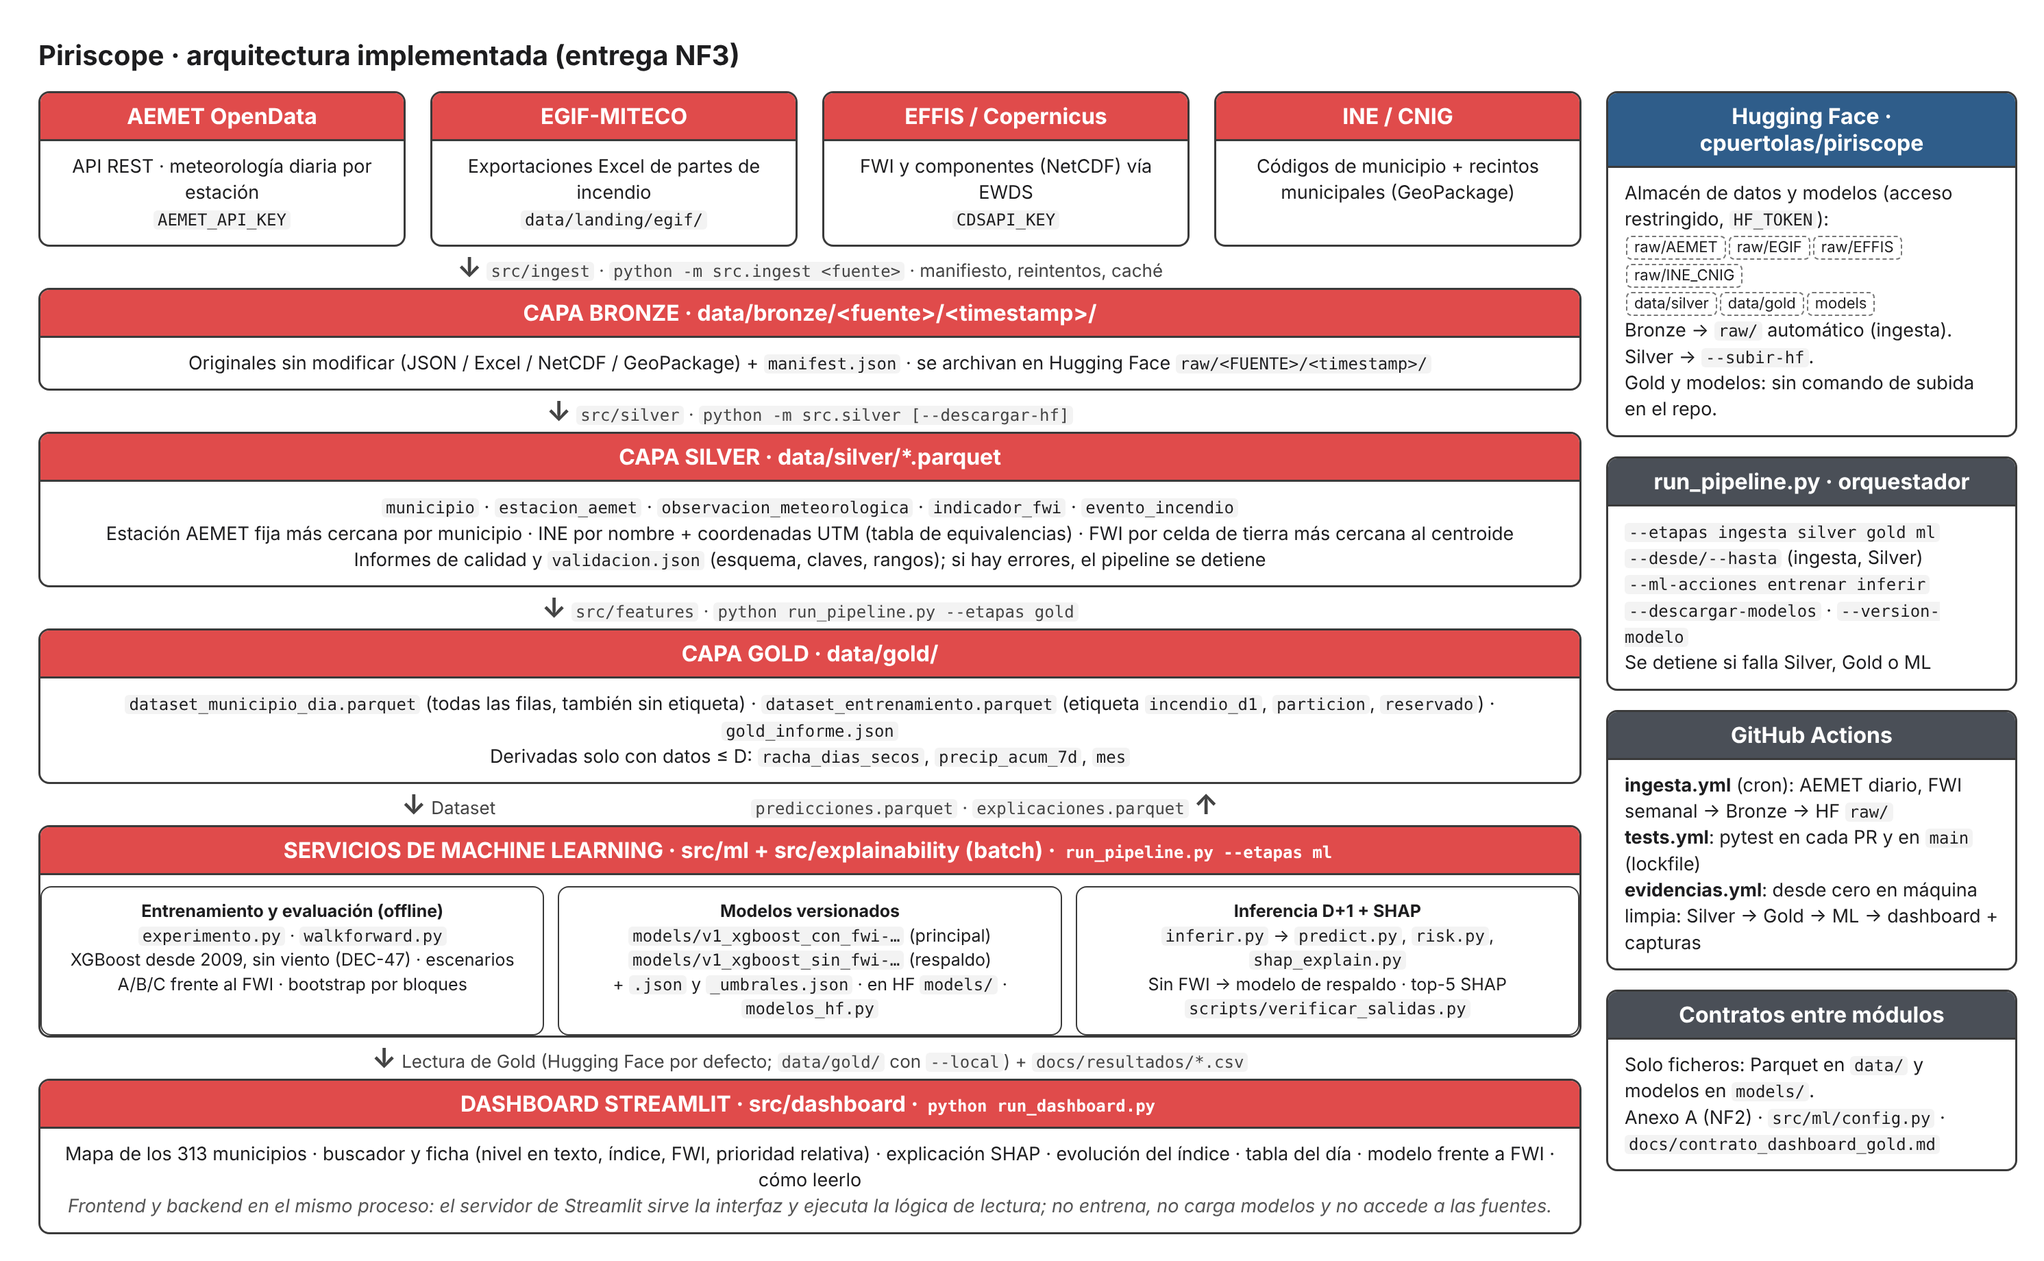
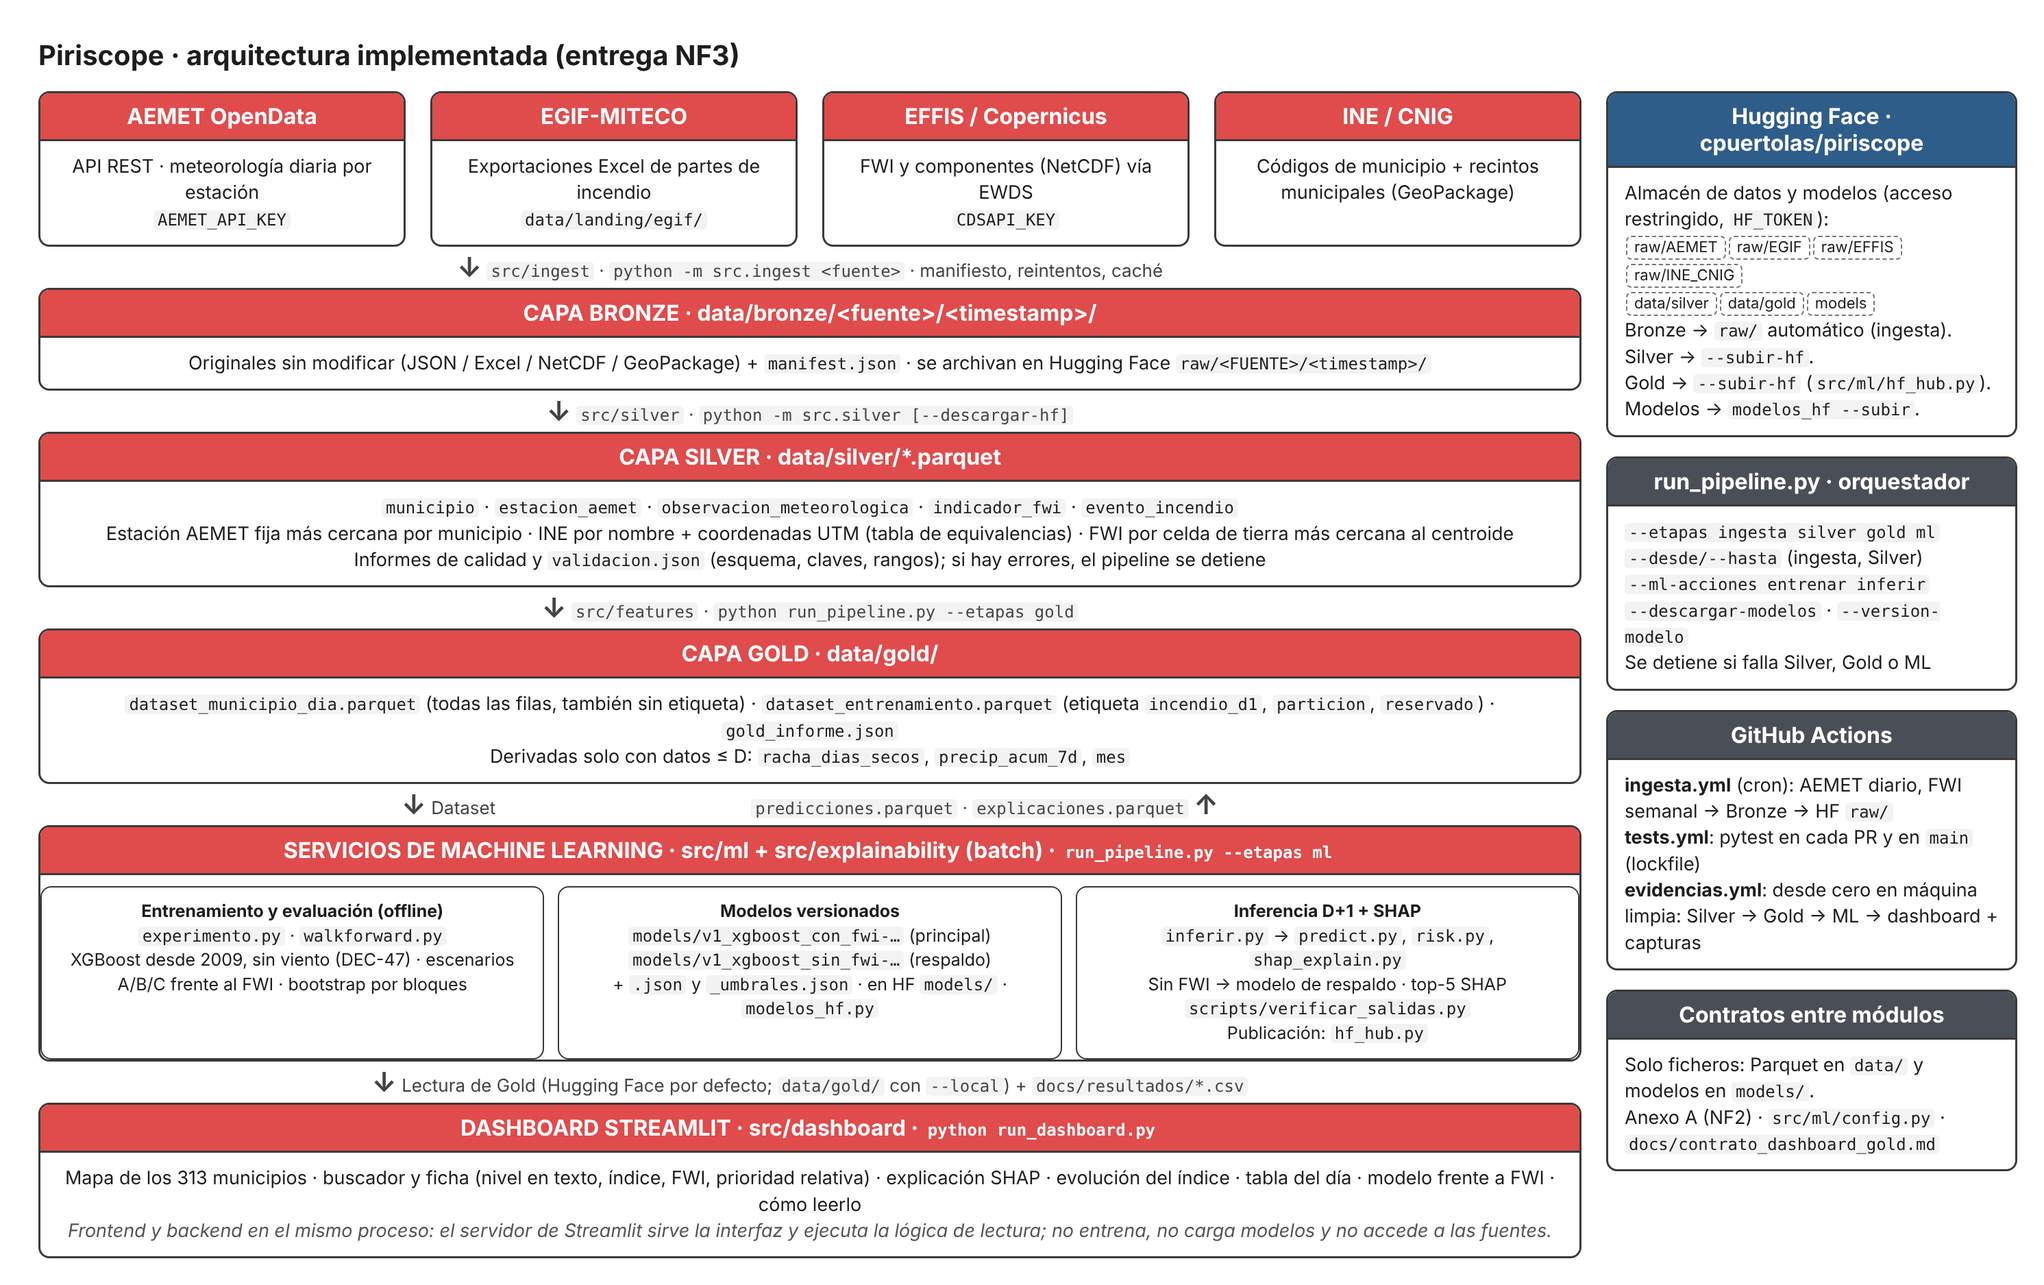
Renumber NF3 decision to DEC-54 after PR #45/#46; align references; dry-run publication in evidence
- PR #45 added DEC-53 (Gold publication) while DEC-53 already existed (NF3 delivery):
  the NF3 one becomes DEC-54 and is added to the index table.
- hf_hub.py, contract and src/ml/README referenced DEC-52 for Gold publication -> DEC-53.
- src/ml/README: --dry_run -> --dry-run; models can now be published.
- README: limitations and repository tree updated for hf_hub.py and modelos_hf --subir.
- docs/arquitectura_implementada: Gold and model publication commands.
- evidencias.yml: run hf_hub and modelos_hf --subir with --dry-run on the real files.

Claude-Session: https://claude.ai/code/session_01HNHJTAW3Qe6EWAYbWsk7Pn

Changed region(s): [[0.0, 0.031, 0.9977, 0.9603], [0.5924, 0.062, 0.7482, 0.1549]]

diff --git a/docs/arquitectura_implementada.html b/docs/arquitectura_implementada.html
@@ -49,7 +49,7 @@
     <div class="sub">
       <div class="caja"><div class="cuerpo"><b>Entrenamiento y evaluación (offline)</b><br><code>experimento.py</code> · <code>walkforward.py</code><br>XGBoost desde 2009, sin viento (DEC-47) · escenarios A/B/C frente al FWI · bootstrap por bloques</div></div>
       <div class="caja"><div class="cuerpo"><b>Modelos versionados</b><br><code>models/v1_xgboost_con_fwi-…</code> (principal)<br><code>models/v1_xgboost_sin_fwi-…</code> (respaldo)<br>+ <code>.json</code> y <code>_umbrales.json</code> · en HF <code>models/</code> · <code>modelos_hf.py</code></div></div>
-      <div class="caja"><div class="cuerpo"><b>Inferencia D+1 + SHAP</b><br><code>inferir.py</code> → <code>predict.py</code>, <code>risk.py</code>, <code>shap_explain.py</code><br>Sin FWI → modelo de respaldo · top-5 SHAP<br><code>scripts/verificar_salidas.py</code></div></div>
+      <div class="caja"><div class="cuerpo"><b>Inferencia D+1 + SHAP</b><br><code>inferir.py</code> → <code>predict.py</code>, <code>risk.py</code>, <code>shap_explain.py</code><br>Sin FWI → modelo de respaldo · top-5 SHAP<br><code>scripts/verificar_salidas.py</code><br>Publicación: <code>hf_hub.py</code></div></div>
     </div></div>
   <div class="flecha"><b>↓</b> Lectura de Gold (Hugging Face por defecto; <code>data/gold/</code> con <code>--local</code>) + <code>docs/resultados/*.csv</code></div>
   <div class="caja"><div class="cab">DASHBOARD STREAMLIT · src/dashboard · <code style="background:none;color:#fff">python run_dashboard.py</code></div>
@@ -61,7 +61,7 @@
     <div class="cuerpo izq">Almacén de datos y modelos (acceso restringido, <code>HF_TOKEN</code>):<br>
     <span class="tag">raw/AEMET</span><span class="tag">raw/EGIF</span><span class="tag">raw/EFFIS</span><span class="tag">raw/INE_CNIG</span><br>
     <span class="tag">data/silver</span><span class="tag">data/gold</span><span class="tag">models</span><br>
-    Bronze → <code>raw/</code> automático (ingesta).<br>Silver → <code>--subir-hf</code>.<br>Gold y modelos: sin comando de subida en el repo.</div></div>
+    Bronze → <code>raw/</code> automático (ingesta).<br>Silver → <code>--subir-hf</code>.<br>Gold → <code>--subir-hf</code> (<code>src/ml/hf_hub.py</code>).<br>Modelos → <code>modelos_hf --subir</code>.</div></div>
   <div class="caja"><div class="cab gris">run_pipeline.py · orquestador</div>
     <div class="cuerpo izq"><code>--etapas ingesta silver gold ml</code><br><code>--desde/--hasta</code> (ingesta, Silver)<br><code>--ml-acciones entrenar inferir</code><br><code>--descargar-modelos</code> · <code>--version-modelo</code><br>Se detiene si falla Silver, Gold o ML</div></div>
   <div class="caja"><div class="cab gris">GitHub Actions</div>

diff --git a/src/ml/hf_hub.py b/src/ml/hf_hub.py
@@ -1,4 +1,4 @@
-"""Publicación de las predicciones de Gold en el dataset de Hugging Face (DEC-52).
+"""Publicación de las predicciones de Gold en el dataset de Hugging Face (DEC-53).
 
 El dashboard descarga `predicciones.parquet` y `explicaciones.parquet` de `data/gold/` del dataset
 (`src/dashboard/datos.py`). Este módulo los sube **en un único commit**, de modo que nunca queda publicado un

diff --git a/src/ml/README.md b/src/ml/README.md
@@ -22,8 +22,8 @@ El modelo con FWI (`con_fwi`) **mejora al FWI** en los tres escenarios de test (
 | `experimento.py` | Entrena las variantes, compara con el FWI y escribe el informe (fases de desarrollo y final) |
 | `walkforward.py` | Validación walk-forward: repite la comparación con el FWI en varios años. Con `--guardar-predicciones` guarda las probabilidades y los umbrales de cada pliegue |
 | `inferir.py` | Inferencia batch con el modelo guardado: dominio del modelo, modelo de respaldo, predicciones, explicaciones SHAP, avisos de calidad y figuras de ejemplo |
-| `modelos_hf.py` | Descarga y subida de Hugging Face los modelos versionados (`models/<versión>_*`: `.joblib`, `.json` y `_umbrales.json`) a `models/`. Descarga: `python -m src.ml.modelos_hf [--version v1]` o `run_pipeline.py --etapas ml --descargar-modelos` (DEC-53); Subida: `python -m src.ml.modelos_hf --subir --version v1 [--dry_run]`|
-| `hf_hub.py` | Publica `predicciones.parquet` y `explicaciones.parquet` en el dataset de Hugging Face en un único commit, tras comprobar que son coherentes (DEC-52) |
+| `modelos_hf.py` | Descarga y subida de Hugging Face los modelos versionados (`models/<versión>_*`: `.joblib`, `.json` y `_umbrales.json`) a `models/`. Descarga: `python -m src.ml.modelos_hf [--version v1]` o `run_pipeline.py --etapas ml --descargar-modelos` (DEC-54). Subida, en un único commit: `python -m src.ml.modelos_hf --subir --version v1 [--dry-run]` |
+| `hf_hub.py` | Publica `predicciones.parquet` y `explicaciones.parquet` en el dataset de Hugging Face en un único commit, tras comprobar que son coherentes (DEC-53). `python -m src.ml.hf_hub [--dry-run]` o `run_pipeline.py --etapas ml --subir-hf` |
 | [`scripts/verificar_salidas.py`](../../scripts/verificar_salidas.py) | Comprueba `predicciones.parquet` y `explicaciones.parquet` (unicidad, cobertura, niveles frente a umbrales, reconstrucción de la probabilidad con SHAP). `run_pipeline.py --etapas ml` lo ejecuta tras la inferencia |
 
 ## Contrato de entrada (tabla de entrenamiento de Gold)
@@ -129,7 +129,7 @@ python scripts/verificar_salidas.py --pred data/gold/predicciones.parquet --expl
 - **Una predicción vigente por municipio y fecha:** al escribir, las nuevas sustituyen a las existentes del mismo municipio y `fecha_objetivo` (aunque tengan otra versión) y a sus explicaciones; así, cuando llega el FWI, `v1` reemplaza a `v1-respaldo`. La escritura es atómica. `--reemplazar` descarta todo lo anterior.
 - **Avisos** por stderr: cobertura baja (`--min-cobertura`), fechas con casi todos los municipios en «medio» o «alto» (`--aviso-alarmas`), muchos nulos meteorológicos en el último día y retraso respecto a hoy (`--max-retraso`).
 - **Figuras de ejemplo** (`--ejemplo-dir`): se generan después de escribir las salidas; si fallan, el código de salida es 2 pero las predicciones ya están escritas.
-- **Publicación en Hugging Face (DEC-52):** `python -m src.ml.hf_hub` (o `run_pipeline.py --etapas ml --subir-hf`, que publica tras inferir y verificar) sube las predicciones y las explicaciones a `data/gold/` del dataset, de donde las descarga el dashboard. Necesita un token con permiso de escritura; `--dry-run` comprueba sin subir.
+- **Publicación en Hugging Face (DEC-53):** `python -m src.ml.hf_hub` (o `run_pipeline.py --etapas ml --subir-hf`, que publica tras inferir y verificar) sube las predicciones y las explicaciones a `data/gold/` del dataset, de donde las descarga el dashboard. Necesita un token con permiso de escritura; `--dry-run` comprueba sin subir.
 
 ### Análisis auxiliares
 
@@ -194,7 +194,7 @@ Al escribir, las predicciones nuevas sustituyen a las existentes del mismo munic
 
 ## Decisiones
 
-Registradas en [docs/decisiones.md](../../docs/decisiones.md), DEC-37 a DEC-52 (contrato de entrada, variantes, entrenamiento, comparación con el baseline, niveles de riesgo, inferencia, SHAP, persistencia de modelos, municipios reservados, dataset de Gold, configuración del modelo, inferencia real con modelo de respaldo, niveles de riesgo, SHAP ampliado, integración en el orquestador y publicación en Hugging Face).
+Registradas en [docs/decisiones.md](../../docs/decisiones.md), DEC-37 a DEC-54 (contrato de entrada, variantes, entrenamiento, comparación con el baseline, niveles de riesgo, inferencia, SHAP, persistencia de modelos, municipios reservados, dataset de Gold, configuración del modelo, inferencia real con modelo de respaldo, niveles de riesgo, SHAP ampliado, integración en el orquestador, publicación en Hugging Face y entrega NF3).
 
 ## Limitaciones y pendientes
 
@@ -206,7 +206,7 @@ Registradas en [docs/decisiones.md](../../docs/decisiones.md), DEC-37 a DEC-52 (
 - **Probabilidad sin calibrar:** sobrestima entre 1,5 y 2,4 veces según el año y una calibración fijada en un año no se mantiene; se presenta como índice de riesgo.
 - **Niveles de riesgo:** política pendiente de confirmar (DEC-49). Los umbrales son provisionales y el Recall objetivo no se reproduce con exactitud de un año a otro.
 - **Etiquetas de 2022 y 2023:** pendiente contrastar con las estadísticas oficiales de EGIF que sean definitivas (DEC-31).
-- Los `.joblib` son pickles: solo cargar ficheros generados por el propio proyecto, y no se suben al repositorio. Los modelos `v1` están en `models/` del dataset de Hugging Face y se descargan con `modelos_hf.py` (DEC-44, DEC-53); el repositorio no tiene comando para subirlos.
+- Los `.joblib` son pickles: solo cargar ficheros generados por el propio proyecto, y no se suben al repositorio. Los modelos `v1` están en `models/` del dataset de Hugging Face y se descargan y se publican con `modelos_hf.py` (DEC-44, DEC-54).
 
 ## Tests
 

diff --git a/docs/decisiones.md b/docs/decisiones.md
@@ -63,6 +63,7 @@ Las decisiones iniciales proceden del documento de diseño técnico de la fase N
 | [DEC-51](#dec-51-integración-de-ml-en-el-orquestador-hu-11) | Integración de ML en el orquestador | Arquitectura | Aceptada |
 | [DEC-52](#dec-52-dashboard-origen-de-los-datos-catálogo-de-municipios-y-presentación) | Dashboard: origen de los datos, catálogo de municipios y presentación | Arquitectura / UX | Aceptada |
 | [DEC-53](#dec-53-publicación-de-las-predicciones-de-gold-en-hugging-face) | Publicación de las predicciones de Gold en Hugging Face | Arquitectura | Aceptada |
+| [DEC-54](#dec-54-entrega-nf3-reproducibilidad-modelos-desde-hugging-face-y-evidencias-en-máquina-limpia) | Entrega NF3: reproducibilidad, modelos desde Hugging Face y evidencias en máquina limpia | Reproducibilidad | Aceptada |
 
 ---
 
@@ -693,7 +694,7 @@ Las decisiones iniciales proceden del documento de diseño técnico de la fase N
 
 ---
 
-### DEC-53. Entrega NF3: reproducibilidad, modelos desde Hugging Face y evidencias en máquina limpia
+### DEC-54. Entrega NF3: reproducibilidad, modelos desde Hugging Face y evidencias en máquina limpia
 
 - **Fecha:** 2026-11-01 · **Estado:** Aceptada
 - **Responsable:** equipo (preparación de la entrega NF3) · **Issue/PR:** nf3/producto-reproducible
@@ -737,7 +738,7 @@ Se cerrarán durante la adquisición y el EDA y se registrarán como nuevas entr
 - [x] Dashboard: mostrar `v1-respaldo` como «estimación sin FWI» y las ausencias como «sin dato» (DEC-48) → DEC-52.
 - [ ] Reducir los días de respaldo: valorar una fuente de FWI más reciente (el retraso actual es de 2 a 3 días) (DEC-48).
 - [ ] Valorar umbrales o niveles alternativos: con el Recall del 80 %, en agosto el 82 % de los municipio-días entra en «medio o superior» (DEC-41). Por mes queda descartado por falta de positivos; cierre en DEC-49.
-- [x] Subir los modelos finales a Hugging Face y enlazarlos (DEC-44): están en `models/` del dataset y se descargan con `python -m src.ml.modelos_hf` o `run_pipeline.py --descargar-modelos` (DEC-53).
+- [x] Subir los modelos finales a Hugging Face y enlazarlos (DEC-44): están en `models/` del dataset y se descargan con `python -m src.ml.modelos_hf` o `run_pipeline.py --descargar-modelos` (DEC-54), y se publican con `python -m src.ml.modelos_hf --subir`.
 - [ ] Contrastar con las estadísticas oficiales si las etiquetas de 2022 y 2023 son definitivas (DEC-31, DEC-21).
 - [ ] Confirmar DEC-49 con el equipo: mantener los niveles por Recall objetivo, mostrar el percentil del día como complemento y presentar la probabilidad como índice de riesgo.
 - [ ] Reajustar los umbrales con el último año completo en cada reentrenamiento y valorar fijarlos con varios años: los fijados con un solo año van de 0,018 a 0,038 (DEC-41, DEC-49, HU-11).
@@ -745,7 +746,7 @@ Se cerrarán durante la adquisición y el EDA y se registrarán como nuevas entr
 - [ ] Si algún día se quiere mostrar una probabilidad calibrada y no un índice, hará falta un método estable entre años: ajustar con la tasa base del año anterior deja la razón entre 0,77 y 1,50 según el año (DEC-49).
 - [x] Acordar con Frontend el contrato de lectura de Gold: una predicción vigente por municipio y fecha, `v1-respaldo` como «estimación sin FWI», ausencias como «sin dato» y la probabilidad siempre junto al nivel (DEC-48, DEC-49) → implementado en el dashboard (DEC-52).
 - [x] Conectar `inferir.py` y el entrenamiento a `run_pipeline.py` (HU-11, DEC-51).
-- [ ] Probar el orquestador con datos reales: Gold, inferencia desde cero, idempotencia y reentrenamiento reproducible (los umbrales de una versión de prueba deben ser iguales a los de `v1`) (DEC-51). Gold e inferencia desde cero, hechos en máquina limpia (DEC-53); falta el reentrenamiento.
+- [ ] Probar el orquestador con datos reales: Gold, inferencia desde cero, idempotencia y reentrenamiento reproducible (los umbrales de una versión de prueba deben ser iguales a los de `v1`) (DEC-51). Gold e inferencia desde cero, hechos en máquina limpia (DEC-54); falta el reentrenamiento.
 - [ ] Decidir qué hacer con las etiquetas de 2024 cuando EGIF las publique (mover los años de partición o mantener 2021/2022/2023) y, si procede, pasar las opciones `--anio-*` desde `run_pipeline.py` (DEC-21, DEC-51).
 - [ ] Añadir a `gold_informe.json` la última fecha con dato por variable y los nulos de los últimos 30 días (incluidas las filas sin etiqueta), para documentar el desfase del FWI y de la meteorología (DEC-46, DEC-48).
 - [x] Guardar las predicciones del walk-forward 2016-2022 (`walkforward.py --guardar-predicciones`) y analizarlas con `analisis_walkforward.py` (DEC-47, DEC-49).

diff --git a/README.md b/README.md
@@ -212,7 +212,8 @@ Los tests también se ejecutan automáticamente con **GitHub Actions** en cada P
 
 Estado a la entrega de NF3. El detalle de cada punto está en [docs/decisiones.md](docs/decisiones.md) (sección *Decisiones pendientes*) y en [src/ml/README.md](src/ml/README.md).
 
-- **Las predicciones no se actualizan solas.** La ingesta es automática (cron), pero Silver, Gold e inferencia se lanzan a mano con `run_pipeline.py`, y el repositorio no tiene comando para subir a Hugging Face la Gold ni los modelos (Silver sí: `--subir-hf`). El dashboard muestra la última fecha publicada, no la de hoy.
+- **Las predicciones no se actualizan solas.** La ingesta es automática (cron), pero Silver, Gold, inferencia y publicación se lanzan a mano con `run_pipeline.py` (`--subir-hf` publica también la Gold tras inferir y verificar, DEC-53). El dashboard muestra la última fecha publicada, no la de hoy.
+- **Publicación en Hugging Face sin probar contra el dataset real**: `python -m src.ml.hf_hub` (Gold) y `python -m src.ml.modelos_hf --subir` (modelos) están cubiertos por tests con un cliente simulado y sus comprobaciones previas se ejecutan sobre los ficheros reales con `--dry-run` en el workflow de evidencias, pero aún no se ha hecho una subida real con ellos.
 - **El FWI llega con retraso**: los últimos días se predicen con el modelo de respaldo (sin FWI), que no mejora al FWI y discrimina poco (pocos valores distintos por día).
 - **Rendimiento modesto** frente al FWI, un solo año de test, **A Coruña no mejora** al FWI y la probabilidad no está calibrada (se presenta como índice de riesgo). Política de niveles provisional (DEC-49): en sequía casi todos los municipios quedan en «medio» o «alto».
 - **Cobertura**: ~25 municipios sin ninguna variable meteorológica en los días recientes aparecen como «Sin dato» (cobertura ≥ 80 % en todas las fechas). El viento se excluyó por tener ~57 % de nulos.
@@ -273,7 +274,8 @@ iFP-Piriscope/
 │   │   ├── config.py · splits.py · train.py · evaluate.py · risk.py · predict.py
 │   │   ├── experimento.py · walkforward.py · reservados.py
 │   │   ├── inferir.py              #   inferencia con modelo principal y de respaldo + SHAP
-│   │   └── modelos_hf.py           #   descarga de los modelos versionados de Hugging Face
+│   │   ├── hf_hub.py               #   publicación de predicciones y explicaciones de Gold en Hugging Face
+│   │   └── modelos_hf.py           #   descarga y publicación de los modelos versionados en Hugging Face
 │   ├── explainability/             # SHAP: valores, top-5 por predicción, gráficos
 │   │   └── config.py · shap_explain.py · plots.py
 │   └── dashboard/                  # Streamlit: solo lee Gold

diff --git a/docs/contrato_dashboard_gold.md b/docs/contrato_dashboard_gold.md
@@ -212,7 +212,7 @@ La figura ya cumple la accesibilidad: el sentido de cada barra se indica tambié
 4. **Prioridad relativa:** se muestra como «Prioridad relativa hoy: top N %», calculada por fecha y por versión de modelo. Sigue siendo provisional hasta confirmar DEC-49.
 5. **Aviso de episodio de riesgo generalizado:** con al menos el 90 % de los municipios con predicción en «medio» o «alto»; mensaje informativo, no error.
 
-**Publicación:** `python -m src.ml.hf_hub` o `run_pipeline.py --etapas ml --subir-hf` suben ambos ficheros a `data/gold/` del dataset de Hugging Face en un único commit, tras comprobar que son coherentes (DEC-52). Pendiente de probar con el dataset real.
+**Publicación:** `python -m src.ml.hf_hub` o `run_pipeline.py --etapas ml --subir-hf` suben ambos ficheros a `data/gold/` del dataset de Hugging Face en un único commit, tras comprobar que son coherentes (DEC-53). Pendiente de probar con el dataset real.
 
 ---
 
